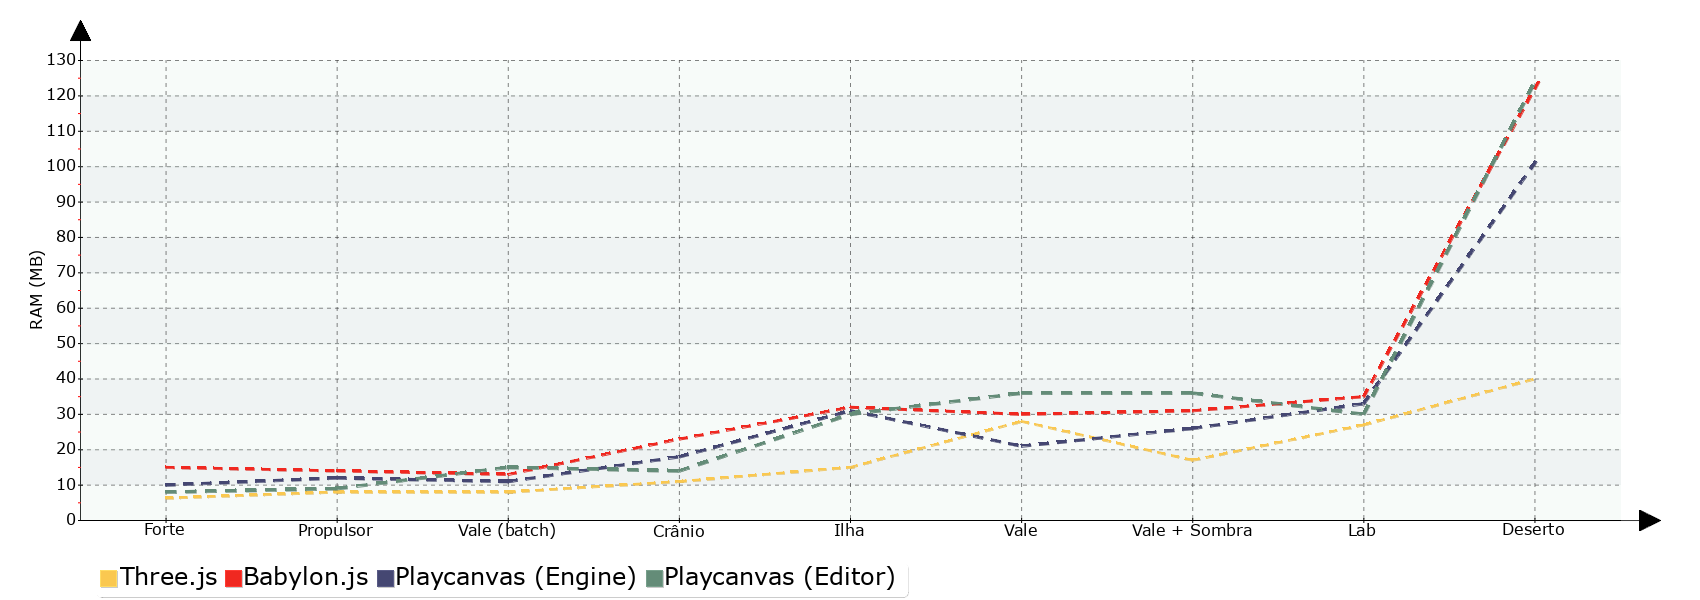
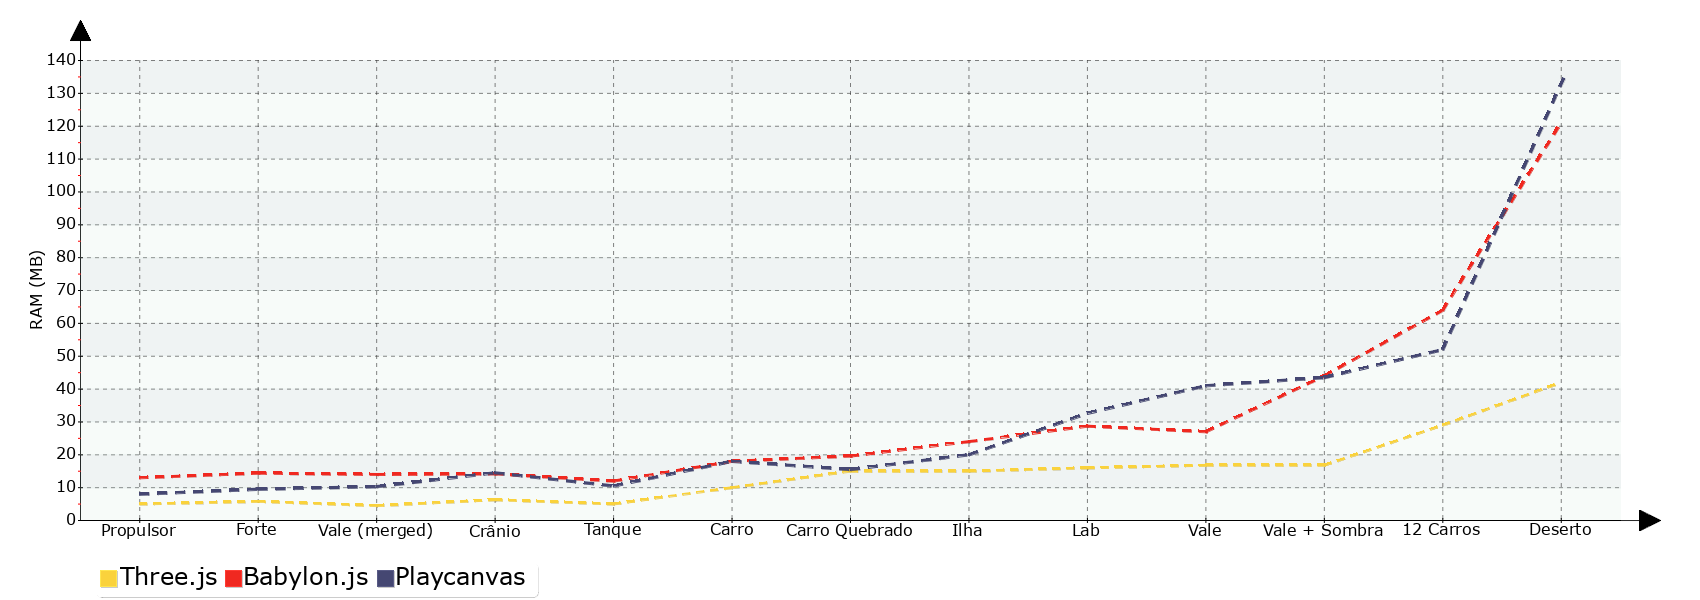
Finalizado no Windows com bibliotecas otimizadas

diff --git a/main.php b/main.php
@@ -23,26 +23,25 @@ $dataCPU = [];
 $dataRAM = [];
 
 $libraries = [
-    'Three' => 'Three.js',
-    'Babylon' => 'Babylon.js',
-    'babylon_fast' => 'Babylon.js (Optimized)',
-    'pc' => 'Playcanvas (Engine)',
-    'pc-editor' => 'Playcanvas (Editor)',
+    /* 'Three_fast' => 'Three.js', */
+    'Three_fastest' => 'Three.js',
+    /* 'Babylon_fast' => 'Babylon.js', */
+    'Babylon_fastest' => 'Babylon.js',
+    /* 'pc-editor_fast' => 'Playcanvas', */
+    'pc-editor' => 'Playcanvas',
 ];
 
 $palletes = [
-    'Three' => ['R' => 250, 'G' => 230, 'B' => 80,],
+    'Three_fastest' => ['R' => 250, 'G' => 210, 'B' => 60,],
+    'Three' => ['R' => 250, 'G' => 210, 'B' => 60,],
+    'Three_fast' => ['R' => 200, 'G' => 180, 'B' => 60,],
+    'Babylon_fastest' => ['R' => 240, 'G' => 050, 'B' => 040,],
     'Babylon' => ['R' => 240, 'G' => 050, 'B' => 040,],
-    'babylon_fast' => ['R' => 255, 'G' => 150, 'B' => 30,],
-    /* 'pc-editor' => ['R' => 250, 'G' => 250, 'B' => 250,], */
-    'pc-editor' => ['R' => 100, 'G' => 140, 'B' => 120,],
-    'pc' => ['R' => 69, 'G' => 71, 'B' => 114,],
-];
-
-$extraGroups = [
-    "desert4-e-sombra" => [
-        'desert4', 'desert_sombra'
-    ]
+    'Babylon_fast' => ['R' => 255, 'G' => 150, 'B' => 30,],
+    'Babylon_novertex' => ['R' => 255, 'G' => 150, 'B' => 30,],
+    'pc-editor_fast' => ['R' => 100, 'G' => 140, 'B' => 120,],
+    'pc-editor_fastest' => ['R' => 69, 'G' => 71, 'B' => 114,],
+    'pc-editor' => ['R' => 69, 'G' => 71, 'B' => 114,],
 ];
 
 $camps = [
@@ -55,47 +54,43 @@ $camps = [
 
 $query = "select ";
 foreach ($camps as $camp) {
-    $query .= "CAST(avg($camp[0]) as int) $camp[1],";
+    $query .= "avg($camp[0]) $camp[1],";
 }
-    $query .= "library, scene, browser, pc from rendering where scene not regexp 'fastest' group by browser, pc, scene, library";
+    $query .= "library, scene, browser, pc from rendering group by browser, pc, scene, library";
 
 $result = $db->query($query);
 
 $groups = [
     'windows' => [
-        'g1' => ['pirate_perto', 'pirate_longe', 'ion', 'floresta_merged', 'skull', 'ilha'],
-        'g2' => explode(' ', 'floresta_perto floresta_longe floresta_sombra lab_longe lab_perto'),
-        'g3' => explode(' ', 'desert car brokencar car_tank car_many car_clone'),
-        /* 'g2' => ['floresta_perto', 'floresta_longe', 'floresta_sombra', 'lab_longe', 'lab_perto', 'desert', 'desert_sombra'], */
+        'g1' => ['pirate_longe', 'pirate_perto', 'ion', 'skull', 'floresta_merged', 'ilha', 'lab_longe', 'lab_perto', 'car_tank'],
+        'g2' => ['car', 'floresta_longe', 'floresta_perto', 'floresta_sombra', 'brokencar', 'car_clone', 'desert']
     ],
     'linux' => [
-        'g1' => [
-            'pirate_perto', 'pirate_longe', 'ion', 'floresta_merged', 'skull', 'ilha',
-            'floresta_perto', 'floresta_longe', 'floresta_sombra', 'lab_longe', 'lab_perto'
-        ]
+        'g1' => ['pirate_longe', 'pirate_perto', 'ion', 'skull', 'floresta_merged', 'ilha', 'lab_longe', 'lab_perto', 'car_tank'],
+        'g2' => ['car', 'floresta_longe', 'floresta_perto', 'floresta_sombra', 'brokencar', 'car_clone']
     ]
 ];
 
 $cpuLabelMap = [
     'pirate' => 'Forte',
     'floresta' => 'Vale',
-    'floresta_merged' => 'Vale (batch)',
+    'floresta_merged' => 'Vale (merged)',
     'floresta_sombra' => 'Vale + Sombra',
     'lab' => 'Lab',
     'ion' => 'Propulsor',
     'ilha' => 'Ilha',
     'skull' => 'Crânio',
     'desert' => 'Deserto',
-    /* 'car' => 'Carro 1', */
-    /* 'brokencar' => 'Carro 2', */
-    /* 'car_tank' => 'Tanque', */
-    /* 'car_many' => 'Carros', */
-    /* 'car_clone' => 'Carros 2', */
+    'car' => 'Carro',
+    'brokencar' => 'Carro Quebrado',
+    'car_tank' => 'Tanque',
+    'car_clone' => '12 Carros',
 ];
 
 $cpuGroups = [
     'linux' => [
-        'pirate', 'ion', 'floresta_merged', 'skull', 'ilha', 'floresta', 'floresta_sombra', 'lab'
+        'ion', 'pirate', 'floresta_merged', 'skull', 'car_tank', 'car', 'brokencar',
+        'ilha', 'lab', 'floresta', 'floresta_sombra', 'car_clone'
     ],
 ];
 $cpuGroups['windows'] = array_merge($cpuGroups['linux'], ['desert']);
@@ -103,7 +98,7 @@ $cpuGroups['windows'] = array_merge($cpuGroups['linux'], ['desert']);
 while ($row = $result->fetch_assoc()) {
     extract($row);
 
-    $scene = str_replace("_fast", "", $scene);
+    $group = 'g0';
     if (isset($groups[$pc])) {
         foreach ($groups[$pc] as $groupName => $group) {
             if (array_search($scene, $group) !== false) {
@@ -112,7 +107,7 @@ while ($row = $result->fetch_assoc()) {
             }
         }
     }
-    $datav2[$browser][$pc][$groupName][$library][$scene] = $avg;
+    $datav2[$browser][$pc][$groupName][$library][$scene] = (int)$avg;
 }
 
 $dataNPM = [
@@ -159,7 +154,7 @@ function makeNPMCharts($data, $libraries)
 
     $libraries = [
         'Three' => 'Three.js',
-        'Babylon' => 'Babylon.js',
+        'BabYlon' => 'Babylon.js',
         'pc' => 'Playcanvas',
         'pc-editor' => 'Playcanvas',
     ];
@@ -196,30 +191,21 @@ function makeNPMCharts($data, $libraries)
 $dataCPU = [
     'linux' => [
         'CPU' => [
-            'Three' => [10,5,15,15,40,55,55,35],
-            'Babylon' => [10,10,15,20,50,50,60,45],
-            'pc' => [10,10,15,15,35,45,55,35],
-            'pc-editor' => [10,10,15,20,35,45,55,40],
+            'Three' => [10,15,15,15,15,30,25,40,35,55,50,35],
+            'Babylon' => [10,15,15,15,15,30,25,40,40,35,60,35],
+            'pc-editor' => [10,15,15,20,15,30,25,35,45,40,55,25]
         ],
-        'RAM' => [
-            'Three' => [5.6,5,5,6.6,14.7,8.4,17,16],
-            'Babylon' => [17,14,12,17,25,29,25,44],
-            'pc' => [10,12,7,12.5,15,17,19,12.8],
-            'pc-editor' => [9,8.5,14,11,14,17.6,22,14],
-        ]
     ],
     'windows' => [
         'CPU' => [
-            'Three' => [5,5,5,5,10,20,30,15,100],
-            'Babylon' => [5,5,5,5,15,20,40,20,100],
-            'pc' => [5,5,5,5,10,15,30,15,100],
-            'pc-editor' => [5,5,5,5,10,15,30,10,100],
+            'Three' => [5, 5, 5, 5, 5, 10, 15, 10, 15,20, 30, 55, 100],
+            'Babylon' => [5, 5, 5, 5, 5, 10, 10, 10, 15, 15, 25, 35,75],
+            'pc-editor' => [5,5, 5,5,5,5,5,10,10,15,30,35,100],
         ],
         'RAM' => [
-            'Three' => [6.3,8,8,11,15,28,17,27,40],
-            'Babylon' => [15,14,13,23,32,30,31,35,122],
-            'pc' => [10,12,11,18,31,21,26,33,101],
-            'pc-editor' => [8,9,15,14,30,36,36,30,124],
+            'Three' => [5, 5.8, 4.5, 6.3, 5.0, 10, 15, 15, 16,16.8,16.8, 29, 42],
+            'Babylon' => [13, 14.4,14,14.2, 12, 18, 19.6, 24, 28.7, 27,44,64, 121],
+            'pc-editor' => [8,9.5, 10.3,14.5,10.5,18,15.5,20,32.6,41,43.5,52,133],
         ]
     ]
 ];
@@ -228,6 +214,12 @@ function makeCpuCharts($dataCPU, $libraries)
 {
     global $barConfig, $legendConfig, $palletes;
     global $cpuGroups, $cpuLabelMap;
+
+    $libraries = [
+        'Three' => 'Three.js',
+        'Babylon' => 'Babylon.js',
+        'pc-editor' => 'Playcanvas',
+    ];
 
     $cpuAxisNames = [
         'CPU' => 'CPU (%)',
@@ -257,7 +249,8 @@ function makeCpuCharts($dataCPU, $libraries)
             }
 
             foreach ($palletes as $lib => $colors) {
-                $data->setPalette($libraries[$lib], $colors);
+                if (isset($libraries[$lib]))
+                    $data->setPalette($libraries[$lib], $colors);
             }
 
             $data->addPoints(array_map(fn($item) => $cpuLabelMap[$item], $cpuGroups[$pcName]), 'scenes');
@@ -278,14 +271,17 @@ $query = "select avg(ms) ms, library, scene, pc from model_loading group by pc, 
 $result = $db->query($query);
 
 while ($row = $result->fetch_assoc()) {
+    $library = preg_replace("/_fast.*$/", "", $library);
+    $scene = preg_replace("/_fast.*$/", "", $scene);
     extract($row);
     $dataModelLoading[$pc][$library][$scene] = (int)$ms;
 }
 
-$query = "select avg(ms) ms, library, scene, pc from startup group by pc, library";
+$query = "select avg(ms) ms, library, scene, pc from startup group by pc, scene, library";
 $result = $db->query($query);
 
 while ($row = $result->fetch_assoc()) {
+    $library = preg_replace("/_fast.*$/", "", $library);
     extract($row);
     $dataModelLoading[$pc][$library]['startup'] = (int)$ms;
 }
@@ -296,18 +292,28 @@ function makeLoadingChart($dataModelLoading, $libraries)
         'startup' => 'Inicialização',
         'pirate' => 'Forte Pirata',
         'ion' => 'Propulsor',
-        'floresta_merged' => 'Vale (batch)',
+        'floresta_merged' => 'Vale (merged)',
         'skull' => 'Crânio',
         'ilha' => 'Ilha',
         'floresta' => 'Vale',
         'lab' => 'Lab',
+        'car' => "Carro",
+        'brokencar' => "Carro Quebrado",
+        'car_clone' => "12 Carros",
+        'car_tank' => "Tanque",
         'desert' => 'Deserto',
+    ];
+
+    $libraries = [
+        'Three' => "Three.js",
+        'Babylon' => "Babylon.js",
+        'pc-editor' => "Playcanvas",
     ];
 
     global $barConfig, $legendConfig, $palletes;
 
     $LoadingbarConfig = array_merge($barConfig, [
-        "DisplayValues" => true
+            "DisplayValues" => true
     ]);
 
     foreach ($dataModelLoading as $pcName => $pc) {
@@ -340,7 +346,8 @@ function makeLoadingChart($dataModelLoading, $libraries)
                 $labels[] = $labelName;
 
         foreach ($palletes as $lib => $colors)
-            $data->setPalette($libraries[$lib], $colors);
+            if (isset($libraries[$lib]))
+                $data->setPalette($libraries[$lib], $colors);
 
         $data->addPoints($labels, 'scenes');
         $data->setAbscissa('scenes');
@@ -348,10 +355,6 @@ function makeLoadingChart($dataModelLoading, $libraries)
 
         cursorSetSize($cursor, $width, $height);
         imageStartDraw($image, $cursor, $data, $settings);
-        $settings = [
-            'Pos' => SCALE_POS_TOPBOTTOM,
-            'Factors' => [60]
-        ];
         $image->drawBarChart($LoadingbarConfig);
 
         $image->drawLegend(OUTER_PADDING, IMAGE_HEIGHT - 30, $legendConfig);
@@ -454,7 +457,7 @@ function makeAvgChart($filename, $browser, $libraries)
     global $legendConfig, $barConfig, $palletes;
 
     $localBarConfig = array_merge($barConfig, [
-        'DisplayValues' => true,
+            'DisplayValues' => true,
     ]);
 
     global $groups;
@@ -464,7 +467,7 @@ function makeAvgChart($filename, $browser, $libraries)
         'pirate_longe' => 'Forte (longe)',
         'floresta_perto' => 'Vale (perto)',
         'floresta_longe' => 'Vale (longe)',
-        'floresta_merged' => 'Vale (batch)',
+        'floresta_merged' => 'Vale (merged)',
         'floresta_sombra' => 'Vale + sombra',
         'ion' => 'Propulsor',
         'lab_perto' => 'Lab (interior)',
@@ -472,12 +475,10 @@ function makeAvgChart($filename, $browser, $libraries)
         'ilha' => 'Ilha',
         'skull' => 'Crânio',
         'desert' => 'Deserto',
-        'desert_sombra' => 'Deserto + sombra',
-        'car' => 'Carro 1',
-        'brokencar' => 'Carro 2',
+        'car' => 'Carro',
+        'brokencar' => 'Carro Quebrado',
         'car_tank' => 'Tanque',
-        'car_many' => 'Carros',
-        'car_clone' => 'Carros 2',
+        'car_clone' => '12 Carros',
     ];
 
     $axisNames = [
@@ -501,7 +502,8 @@ function makeAvgChart($filename, $browser, $libraries)
                 $data->addPoints($points, $libFullName);
             }
             foreach ($palletes as $lib => $colors) {
-                $data->setPalette($libraries[$lib], $colors);
+                if (isset($libraries[$lib]))
+                    $data->setPalette($libraries[$lib], $colors);
             }
 
             $data->addPoints(array_map(fn ($item) => $labelMap[$item], $groups[$pcName][$groupName]), 'fps');
@@ -513,12 +515,12 @@ function makeAvgChart($filename, $browser, $libraries)
             $image->drawBarChart($localBarConfig);
 
             $image->drawLegend(OUTER_PADDING, IMAGE_HEIGHT - 30, $legendConfig);
-            $image->autoOutput("$filename-$pcName-$groupName.png");
+            $image->autoOutput("$filename-frustum-$pcName-$groupName.png");
         }
     }
 }
 
 /* makeNPMCharts($dataNPM, $libraries); */
 makeBarCharts($datav2, $libraries);
-/* makeLoadingChart($dataModelLoading, $libraries); */
-/* makeCpuCharts($dataCPU, $libraries); */
+makeLoadingChart($dataModelLoading, $libraries);
+makeCpuCharts($dataCPU, $libraries);
